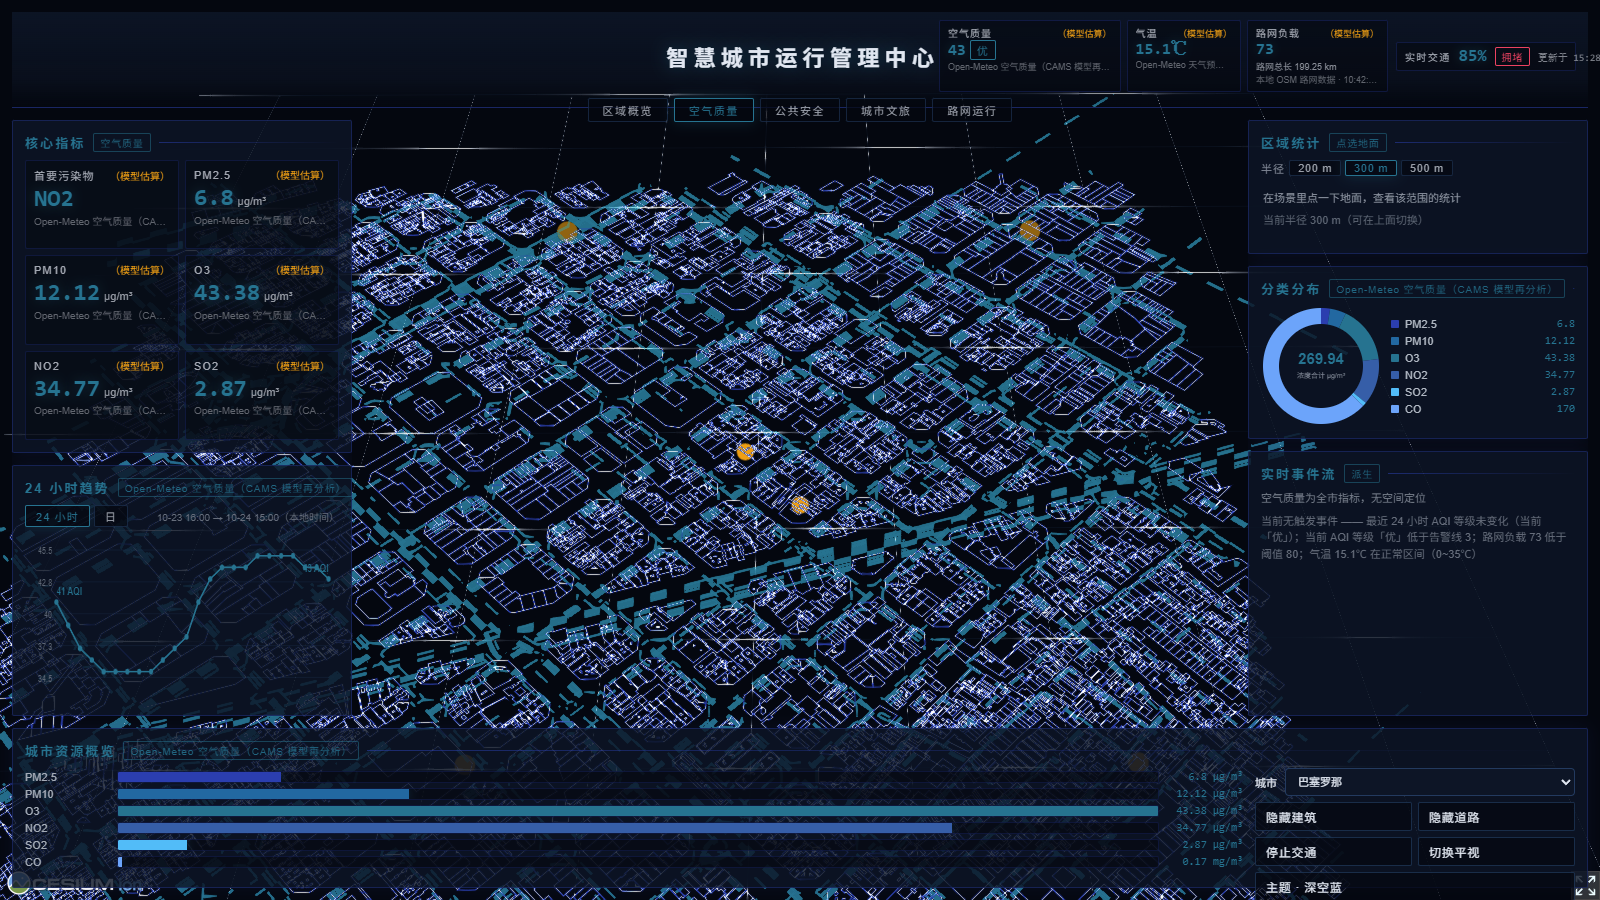
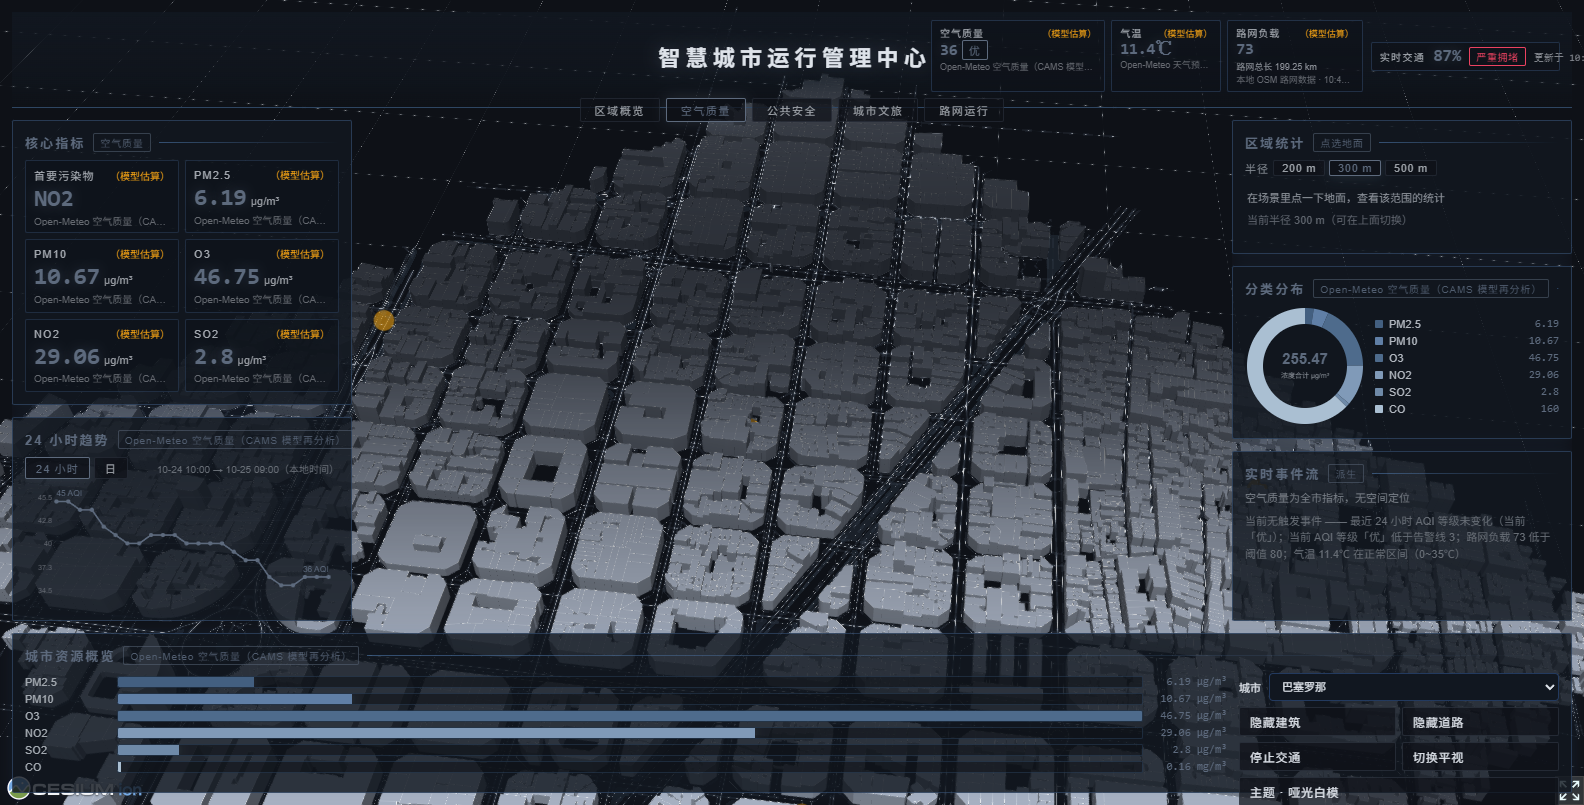
Plan T15: switch the depth fog off in street view and refresh the screenshots

diff --git a/Data-driven-modeling/src/composables/useSceneStage.ts b/Data-driven-modeling/src/composables/useSceneStage.ts
@@ -1,4 +1,4 @@
-import { markRaw, reactive, ref } from 'vue'
+import { markRaw, reactive, ref, watch } from 'vue'
 import type { Ref } from 'vue'
 import * as Cesium from 'cesium'
 import {
@@ -16,7 +16,7 @@ import {
 } from '@/theme/dark'
 import type { LiveColorMaterial, LiveGlowMaterial } from '@/theme/dark'
 import type { ThemeDefinition, ThemeRoadColors } from '@/theme/themes/types'
-import { applyFogTheme, createDepthFogStage } from './sceneFog'
+import { applyFogTheme, createDepthFogStage, setFogEnabled } from './sceneFog'
 import type {
   BuildingsResponse,
   CityViewState,
@@ -660,6 +660,11 @@ export function useSceneStage({ container, buildings, roads }: SceneStageOptions
     trafficEntities: []
   })
 
+  // 深度雾的**硬开关**：只在鸟瞰开，平视整段关掉。
+  //
+  // 不用「靠距离回落段绕开」那种软办法：平视是 1.7 m 的人眼高度，
+  // 深度纹理在这个高度上的插值最不准（实测地面深度会被算到几公里外），
+  // 开着只会在平视画面上糊出一层不该有的灰蒙。
   const primitives: ScenePrimitives = {
     buildingGlow: null,
     buildingGlowMaterial: null,
@@ -672,6 +677,16 @@ export function useSceneStage({ container, buildings, roads }: SceneStageOptions
     roadMaterials: new Map<RoadColorKey, LiveGlowMaterial>(),
     fogStage: null,
   }
+
+  // 深度雾的**硬开关**：只在鸟瞰开，平视整段关掉。
+  //
+  // 不用「靠距离回落段绕开」那种软办法：平视是 1.7 m 的人眼高度，
+  // 深度纹理在这个高度上的插值最不准（实测地面深度会被算到几公里外），
+  // 开着只会在平视画面上糊出一层不该有的灰蒙。
+  watch(
+    () => state.viewMode,
+    mode => setFogEnabled(primitives.fogStage, mode === 'overhead'),
+  )
 
   /**
    * 当前生效的主题。

diff --git a/Data-driven-modeling/src/composables/sceneFog.ts b/Data-driven-modeling/src/composables/sceneFog.ts
@@ -71,11 +71,18 @@ uniform float fogNear;
 uniform float fogFar;
 uniform float fogFalloff;
 uniform float fogStrength;
+uniform float fogEnabled;
 
 in vec2 v_textureCoordinates;
 
 void main(void) {
   vec4 color = texture(colorTexture, v_textureCoordinates);
+
+  // 硬开关：平视时整个阶段直接不生效（1 = 开，0 = 关）。
+  if (fogEnabled < 0.5) {
+    out_FragColor = color;
+    return;
+  }
 
   // 深度 1.0 = 这一像素没有地面（天空 / 背景），不参与雾。
   float depth = czm_readDepth(depthTexture, v_textureCoordinates);
@@ -123,6 +130,8 @@ export const createDepthFogStage = (theme: ThemeDefinition): Cesium.PostProcessS
       fogFar: theme.fog.far,
       fogFalloff: theme.fog.falloff,
       fogStrength: theme.fog.strength,
+      // 硬开关：默认开；平视时由场景层关掉（见 useSceneStage 的 watch）。
+      fogEnabled: 1,
     },
   })
   return stage
@@ -144,4 +153,19 @@ export const applyFogTheme = (
   stage.uniforms.fogFar = theme.fog.far
   stage.uniforms.fogFalloff = theme.fog.falloff
   stage.uniforms.fogStrength = theme.fog.strength
+}
+
+/**
+ * 深度雾的硬开关。
+ *
+ * **平视直接关掉**，不靠回落段绕：
+ * 平视是 1.7 m 的人眼高度，深度纹理在这个高度上的插值最不准
+ * （实测地面深度会被算到几公里外），开着只会让画面出现不该有的灰蒙。
+ */
+export const setFogEnabled = (
+  stage: Cesium.PostProcessStage | null,
+  enabled: boolean,
+): void => {
+  if (!stage) return
+  stage.uniforms.fogEnabled = enabled ? 1 : 0
 }
